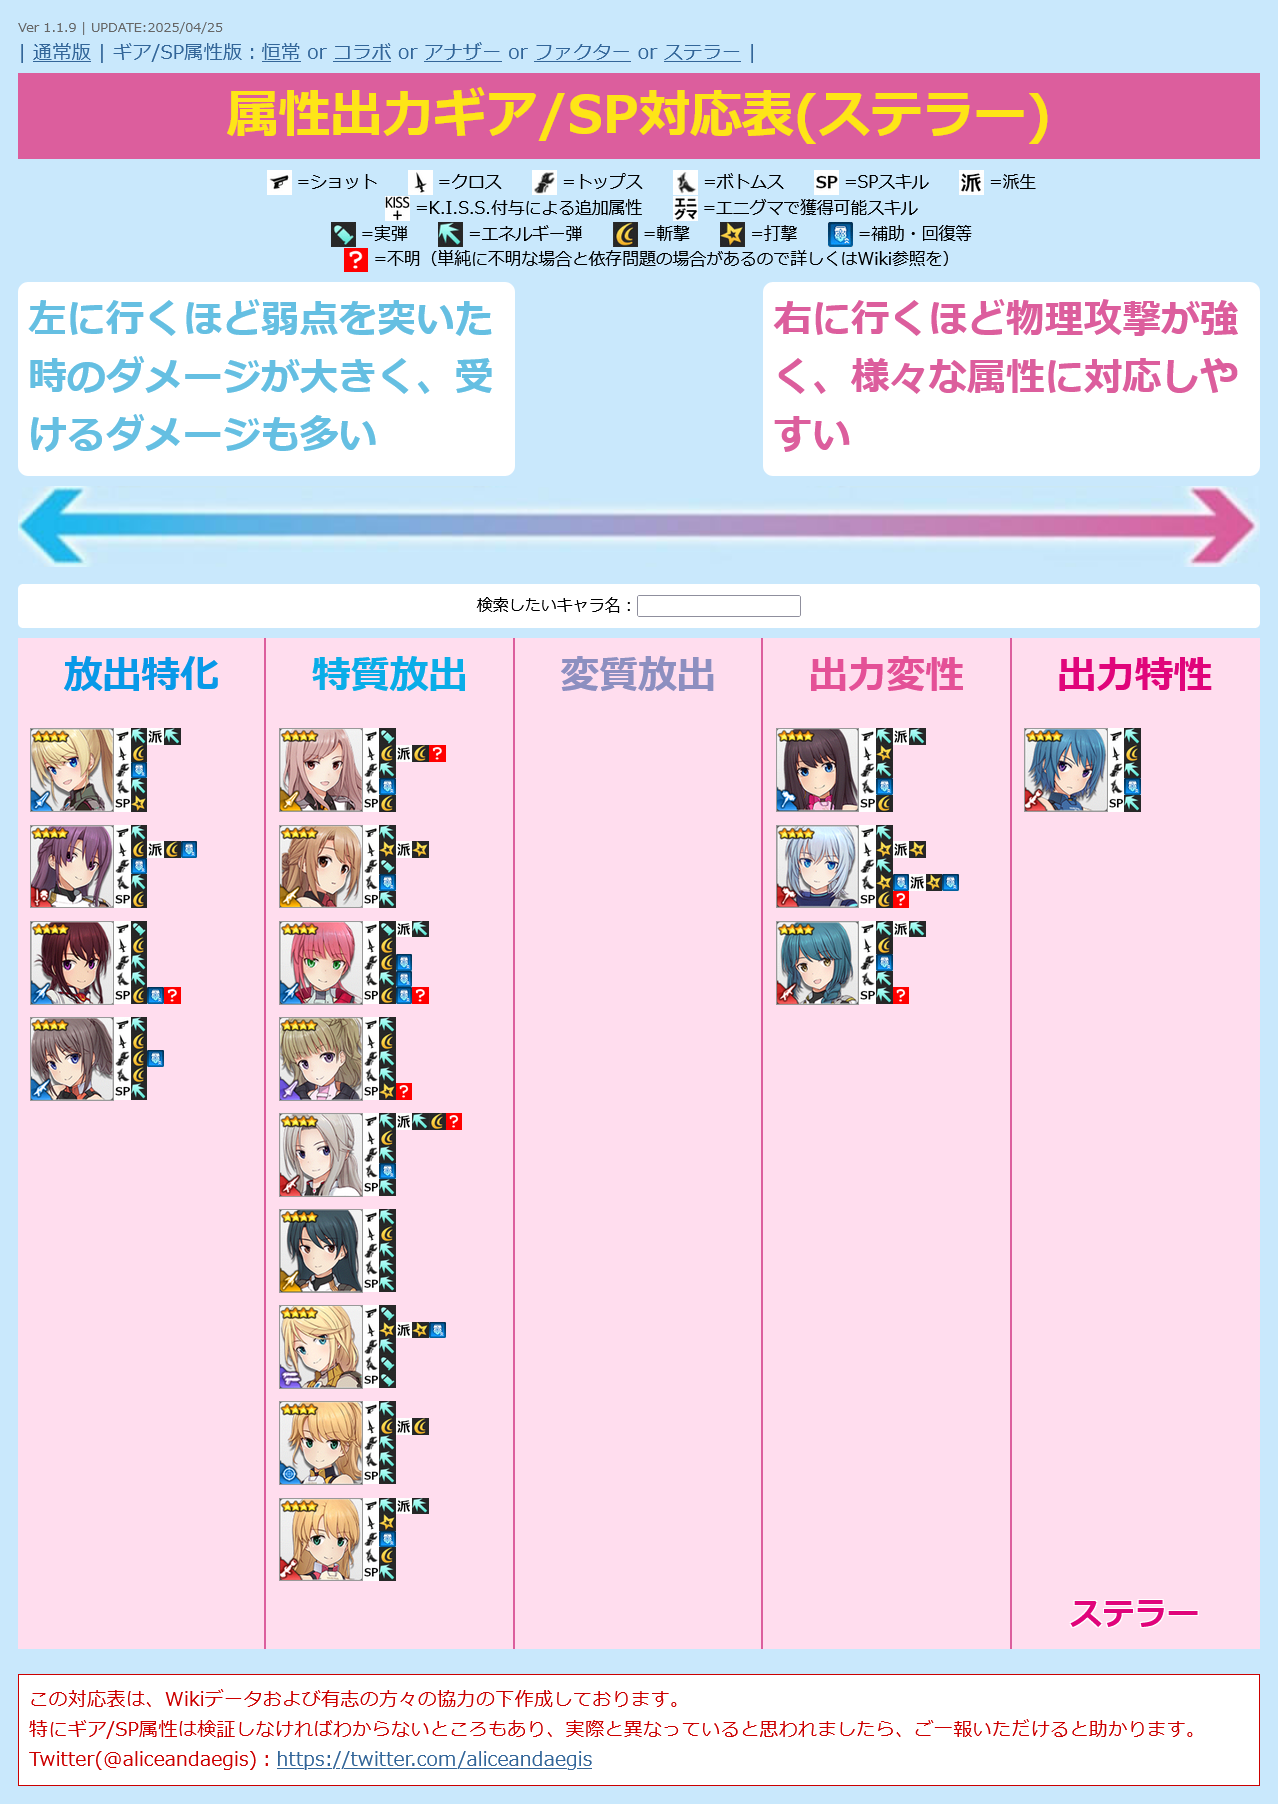
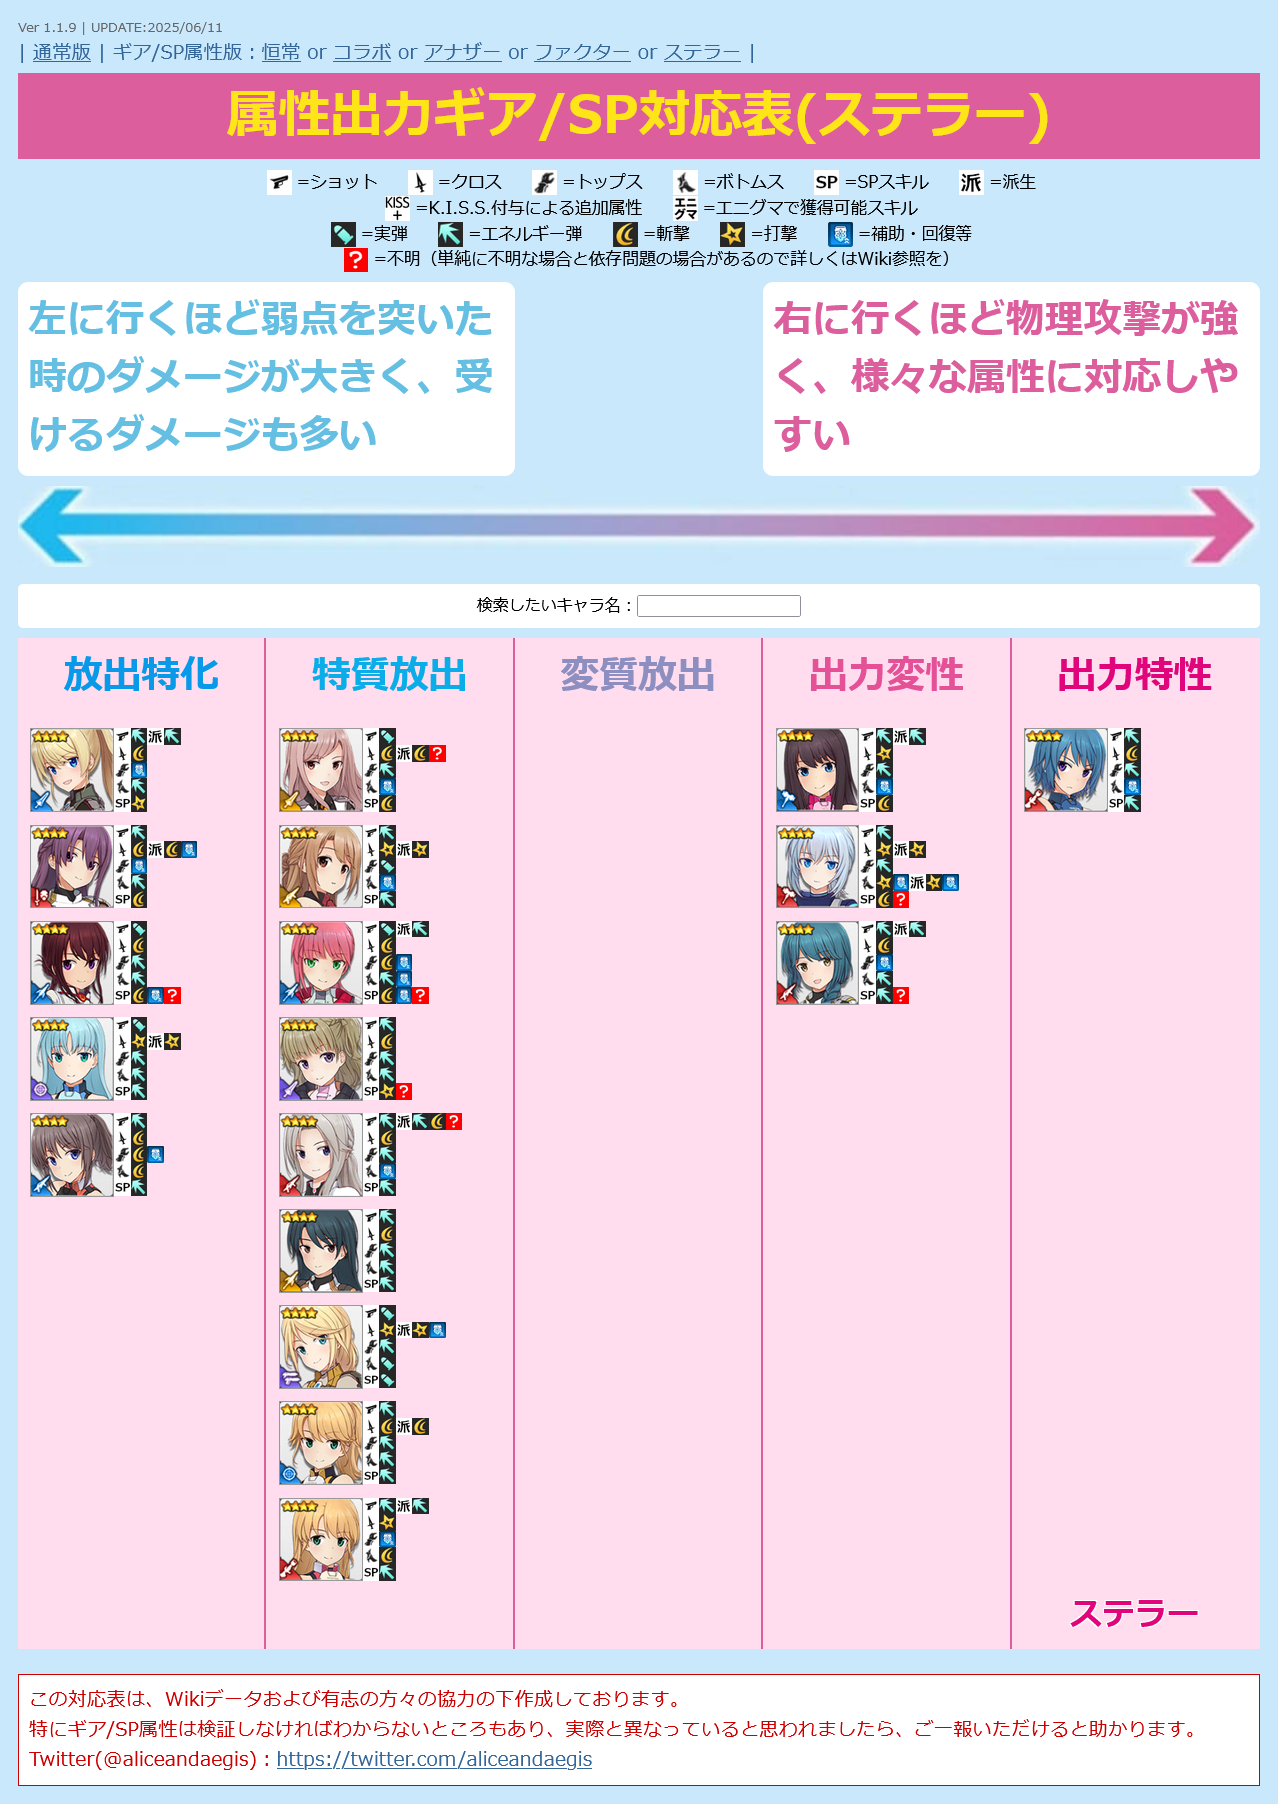
UPDATE charadata
・ステラー 御茶ノ水 美里江 / ハングドマンを追加

Changed region(s): [[0.0, 0.5588, 0.1526, 0.6829]]

diff --git a/alice.html b/alice.html
@@ -12,7 +12,7 @@
   <script>
 
 /* 更新情報 必要に応じて書き換えてください */
-  var version = "Ver 1.1.9 | UPDATE:2025/05/29";
+  var version = "Ver 1.1.9 | UPDATE:2025/06/11";
 
 
 /*
@@ -1550,6 +1550,20 @@
       "category": "10"
     },
     {
+      "id": "36",
+      "type": "1",
+      "src": "stellar-mirie.png",
+      "name": "御茶ノ水 美里江 / ハングドマン",
+      "equip1": "1",
+      "equip2": "4/4",
+      "equip3": "2",
+      "equip4": "2",
+      "sp": "2",
+      "attr": "2",
+      "link": "https://wikiwiki.jp/alicegear/%E5%BE%A1%E8%8C%B6%E3%83%8E%E6%B0%B4%E7%BE%8E%E9%87%8C%E6%B1%9F/%E3%83%8F%E3%83%B3%E3%82%B0%E3%83%89%E3%83%9E%E3%83%B3",
+      "category": "12"
+    },
+    {
       "id": "37",
       "type": "1",
       "src": "normal-akane.png",
@@ -1824,7 +1838,7 @@
       "equip2": "3",
       "equip3": "2",
       "equip4": "2/25",
-      "sp": "35?",
+      "sp": "35?|2",
       "attr": "2",
       "link": "https://wikiwiki.jp/alicegear/%E6%9D%91%E5%B0%BE%E6%9C%AA%E7%BE%85/%E3%82%B3%E3%83%8D%E3%82%AF%E3%83%88",
       "category": "11"
@@ -1866,7 +1880,7 @@
       "equip2": "3",
       "equip3": "2",
       "equip4": "2",
-      "sp": "35?",
+      "sp": "35?|3",
       "attr": "1",
       "link": "https://wikiwiki.jp/alicegear/%E5%90%9B%E5%BD%B1%E5%94%AF/%E3%83%A9%E3%82%A4%E3%83%96",
       "category": "11"
